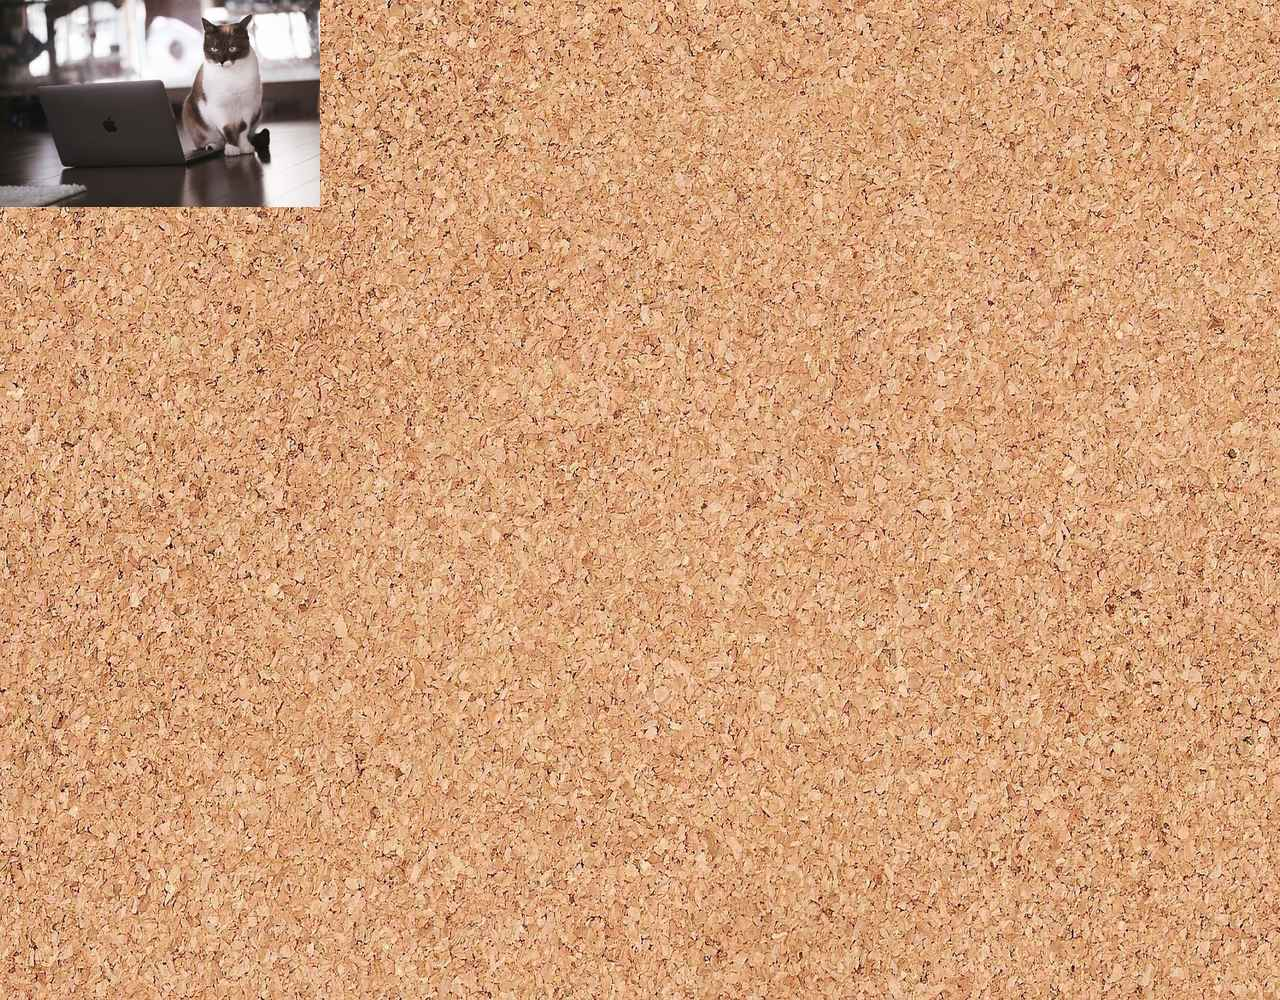
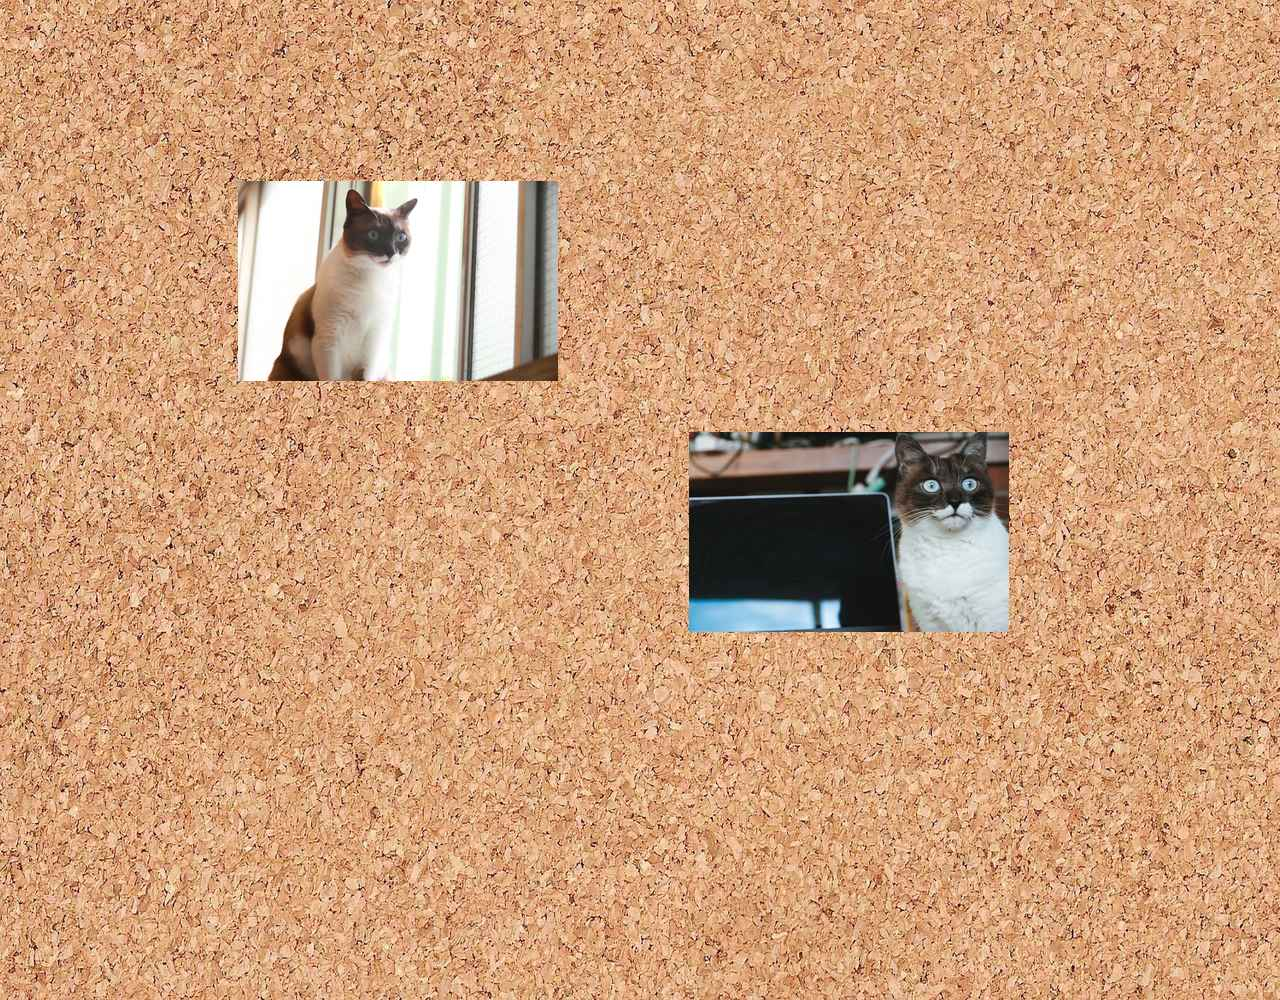
背景画像が選択されているか判定

Changed region(s): [[0.0, 0.0, 0.4375, 0.403], [0.5312, 0.434, 0.8125, 0.651]]

diff --git a/app/assets/javascripts/thumbnail.js b/app/assets/javascripts/thumbnail.js
@@ -1,12 +1,35 @@
-
 //各画像情報で使用する配列の作成
   var array = new Array(5);
   console.log( array );
+
+  array[4] =[1000,1280,0,0];
 
 //各ファイル選択によって画像を表示するイベント追加
 $(document).on('turbolinks:load',function(event){
   $('li').on('click', function () {
     index = $('li.btn').index(this);
+    if(index==4){
+      const back_choice_x = document.getElementById("back_choice_x");
+      const back_choice_y = document.getElementById("back_choice_y");
+      const back_choice_w = document.getElementById("back_choice_w");
+      const back_choice_h = document.getElementById("back_choice_h");
+
+      if(back_choice_w.style.display=="inline"){
+    		// noneで非表示
+    		back_choice_x.style.display ="none";
+        $('.preview').css("background-image","url()"); 
+    	}else{
+    		// inlineで表示
+    		back_choice_w.style.display ="inline";
+    	}
+      if(back_choice_h.style.display=="inline"){
+    		// noneで非表示
+    		back_choice_y.style.display ="none";
+    	}else{
+    		// inlineで表示
+    		back_choice_h.style.display ="inline";
+    	}
+    }
   });
 //各画像を選択した際に画像の情報を取得
   $(function(){
@@ -34,30 +57,48 @@ $(document).on('turbolinks:load',function(event){
   //preview内のサイズ変更イベント
   $('input[name="X_size"]').change(function(){
    $('.preview').css('width',$(this).val() + 'px');
+   pre_w = $('.preview').css("width");
+   pre_wi = parseInt( pre_w );
+   console.log(pre_wi);
+   parseInt($('#top').val(pre_wi));
 
-   //背景画像が選択された場合.previewと同じサイズに変更される
-   parseInt($('.material_5').css('width',$(this).val() + 'px'));
-   w = $('.material_5').width();
-   console.log(w);
-   var img = $(".material_5 > img"); //画像を取得
-    img.width(w);
-    array[4][1] = w;
-    console.log(array[4]);
-    parseInt($('#data_5').val(array[4]));
  });
   $('input[name="Y_size"]').change(function(){
    $('.preview').css('height',$(this).val() + 'px');
+   pre_h = $('.preview').css("height");
+   pre_hi = parseInt( pre_h );
+   console.log(pre_hi);
+   parseInt($('#left').val(pre_hi));
 
-   //背景画像が選択された場合.previewと同じサイズに変更される
-   parseInt($('.material_5').css('height',$(this).val() + 'px'));
-   h = $('.material_5').height();
-   console.log(h);
-   var img = $(".material_5 > img"); //画像を取得
-    img.height(h);
-    array[4][0] = h;
-    console.log(array[4]);
-    parseInt($('#data_5').val(array[4]));
  });
+
+ document.getElementById("back_choice_x").style.display ="inline";
+ document.getElementById("back_choice_y").style.display ="inline";
+ document.getElementById("back_choice_w").style.display ="none";
+ document.getElementById("back_choice_h").style.display ="none";
+
+
+ $('input[name="data_w"]').change(function(){
+  parseInt($('.material_5').css('width',$(this).val() + 'px'));
+  w = $('.material_5').width();
+  console.log(w);
+  var img = $(".material_5 > img"); //画像を取得
+   img.width(w);
+   array[4][1] = w;
+   console.log(array[4]);
+   parseInt($('#data_5').val(array[4]));
+});
+
+ $('input[name="data_h"]').change(function(){
+  parseInt($('.material_5').css('height',$(this).val() + 'px'));
+  h = $('.material_5').height();
+  console.log(h);
+  var img = $(".material_5 > img"); //画像を取得
+   img.height(h);
+   array[4][0] = h;
+   console.log(array[4]);
+   parseInt($('#data_5').val(array[4]));
+});
 
 
 

diff --git a/app/controllers/prototypes_controller.rb b/app/controllers/prototypes_controller.rb
@@ -21,77 +21,125 @@ class PrototypesController < ApplicationController
 
     #背景画像の情報
     data_5 = params[:data][:image_5].split(",").map(&:to_i)
+    data_w = data_5[1]
+    data_h = data_5[0]
 
+    #class="preview"の高さと横幅を取得
+    data_x = params[:data][:image_x].to_i
+    data_y = params[:data][:image_y].to_i
 
-    data_x = params[:data][:X_size].to_i
-    data_y = params[:data][:Y_size].to_i
-
-    #puts(data_x)
-    #puts(data_y)
+    puts(data_x)
+    puts(data_y)
 
     @height_1 = data_1[0]; @width_1  = data_1[1]; @top_1 = data_1[2]; @left_1 = data_1[3] #puts(@height_1); puts(@width_1); puts(@top_1); puts(@left_1)
     @height_2 = data_2[0]; @width_2  = data_2[1]; @top_2 = data_2[2]; @left_2 = data_2[3] #puts(@height_2); puts(@width_2); puts(@top_2); puts(@left_2)
     @height_3 = data_3[0]; @width_3  = data_3[1]; @top_3 = data_3[2]; @left_3 = data_3[3] #puts(@height_3); puts(@width_3); puts(@top_3); puts(@left_3)
     @height_4 = data_4[0]; @width_4  = data_4[1]; @top_4 = data_4[2]; @left_4 = data_4[3] #puts(@height_4); puts(@width_4); puts(@top_4); puts(@left_4)
-    @height_5 = data_5[0]; @width_5  = data_5[1]; @top_5 = data_5[2]; @left_5 = data_5[3] #puts(@height_4); puts(@width_4); puts(@top_4); puts(@left_4)
+    @height_5 = data_5[0]; @width_5  = data_5[1];
 
-=begin
-    puts("ここから下はeval")
-    x = 1
-    while x<=4
-        puts eval("@height_#{x}")
-        puts eval("@width_#{x}")
-        puts eval("@top_#{x}")
-        puts eval("@left_#{x}")
-        x += 1
-    end
-=end
     y = 1
-
+    if data_5.empty?
+    puts("data_5に背景画像が選択されていないため、デフォルト画像を使用します。")
+    #デフォルトの背景画像を読み込む処理
     image = Magick::Image.read('public/CorkBoard.jpg').first
     back_image = image.resize(data_x,data_y)
     back_image.write('public/resize_backimage.jpg')
-    #puts(height);puts(width);puts(top);puts(left)
     back_image = Magick::Image.read('public/resize_backimage.jpg').first
-    respond_to do |format|
-      if @prototype.save
-        @prototype.thumbnails.each do |thumbnail|
-        thumb = thumbnail.image_url
-        thumb.slice!(0)
 
-        puts("この下はthumb")
-        puts(thumb)
+      respond_to do |format|
+        if @prototype.save
+          #背景画像以外の処理
+          @prototype.thumbnails.each do |thumbnail|
+          thumb = thumbnail.image_url
+          thumb.slice!(0)
 
-        original = Magick::Image.read("public/#{thumb}").first
+          original = Magick::Image.read("public/#{thumb}").first
 
-        w = eval("@width_#{y}")
-        h = eval("@height_#{y}")
-        t = eval("@top_#{y}")
-        l = eval("@left_#{y}")
-        y += 1
-        #puts(w)
-        #puts(h)
-        #puts(t)
-        #puts(l)
-        image_size = original.resize(w,h)
+          w = eval("@width_#{y}")
+          h = eval("@height_#{y}")
+          t = eval("@top_#{y}")
+          l = eval("@left_#{y}")
+          y += 1
+          #puts(w)
+          #puts(h)
+          #puts(t)
+          #puts(l)
+          image_size = original.resize(w,h)
 
-        back_image.composite!(image_size, l, t , Magick::OverCompositeOp)
+          back_image.composite!(image_size, l, t , Magick::OverCompositeOp)
+          #back_image.write("public/#{thumb}")
+          #image.write("public/resize/zesize.jpg")
 
-        #back_image.write("public/#{thumb}")
-        #image.write("public/resize/zesize.jpg")
-
-        end
-        back_image.write("public/uploads/resize/resize.jpg")
-        flash[:notice] = "画像が合体しました！"
-
-        format.html { redirect_to :action => "show",:id => Prototype.last.id }
-        format.json { render :show, status: :created, location: @prototype }
+          end
+          back_image.write("public/uploads/resize/resize.jpg")
+          format.html { redirect_to :action => "show",:id => Prototype.last.id }
+          format.json { render :show, status: :created, location: @prototype }
+        else
+          format.html { render :new }
+          format.json { render json: @prototype.errors, status: :unprocessable_entity }
+        end #if @prototype.save
+      end #respond_to do |format|
       else
-        format.html { render :new }
-        format.json { render json: @prototype.errors, status: :unprocessable_entity }
-      end
-    end
-  end
+          #背景画像が選択された場合
+          respond_to do |format|
+            if @prototype.save
+              #背景画像が選択された場合の処理
+              @prototype.thumbnails.last
+              thumb_last = @prototype.thumbnails.last.image_url
+              thumb_last.slice!(0)
+
+              puts("この下はthumb_last")
+              puts(thumb_last)
+              back_change = Magick::Image.read("public/#{thumb_last}").first
+              #背景画像の情報を取得できればOK
+              wid = data_w
+              hei = data_h
+              background_image= back_change.resize(wid,hei)
+              background_image.write("public/background_image.jpg")
+              #背景画像以外の処理
+              @prototype.thumbnails.each do |thumbnail|
+              #もし、最後の要素かつ背景画像が選択されている場合
+              thumb = thumbnail.image_url
+              thumb.slice!(0)
+
+              puts("この下はthumb")
+              puts(thumb)
+
+                if(thumb)
+                  original = Magick::Image.read("public/#{thumb}").first
+
+                  w = eval("@width_#{y}")
+                  h = eval("@height_#{y}")
+                  t = eval("@top_#{y}")
+                  l = eval("@left_#{y}")
+                  y += 1
+                  puts(w)
+                  puts(h)
+                  puts(t)
+                  puts(l)
+                  puts(y)
+                  image_size = original.resize(w,h)
+                  background_image.composite!(image_size, l, t , Magick::OverCompositeOp)
+
+                elsif(thumb_last)
+                  puts("data_5は背景画像のため読み込みの必要はない")
+                  puts("背景画像と4つの画像を結合します。")
+                else
+                end
+              end
+              puts("画像を結合します")
+              background_image.write("public/uploads/changeimage/change.jpg")
+          flash[:notice] = "画像が合体しました！"
+
+          format.html { redirect_to :action => "show",:id => Prototype.last.id }
+          format.json { render :show, status: :created, location: @prototype }
+        else
+          format.html { render :new }
+          format.json { render json: @prototype.errors, status: :unprocessable_entity }
+        end #if @prototype.save
+      end #respond_to do |format|
+    end #data_5.empty?
+  end #def create
 
   def show
     @prototype = Prototype.find(params[:id])
